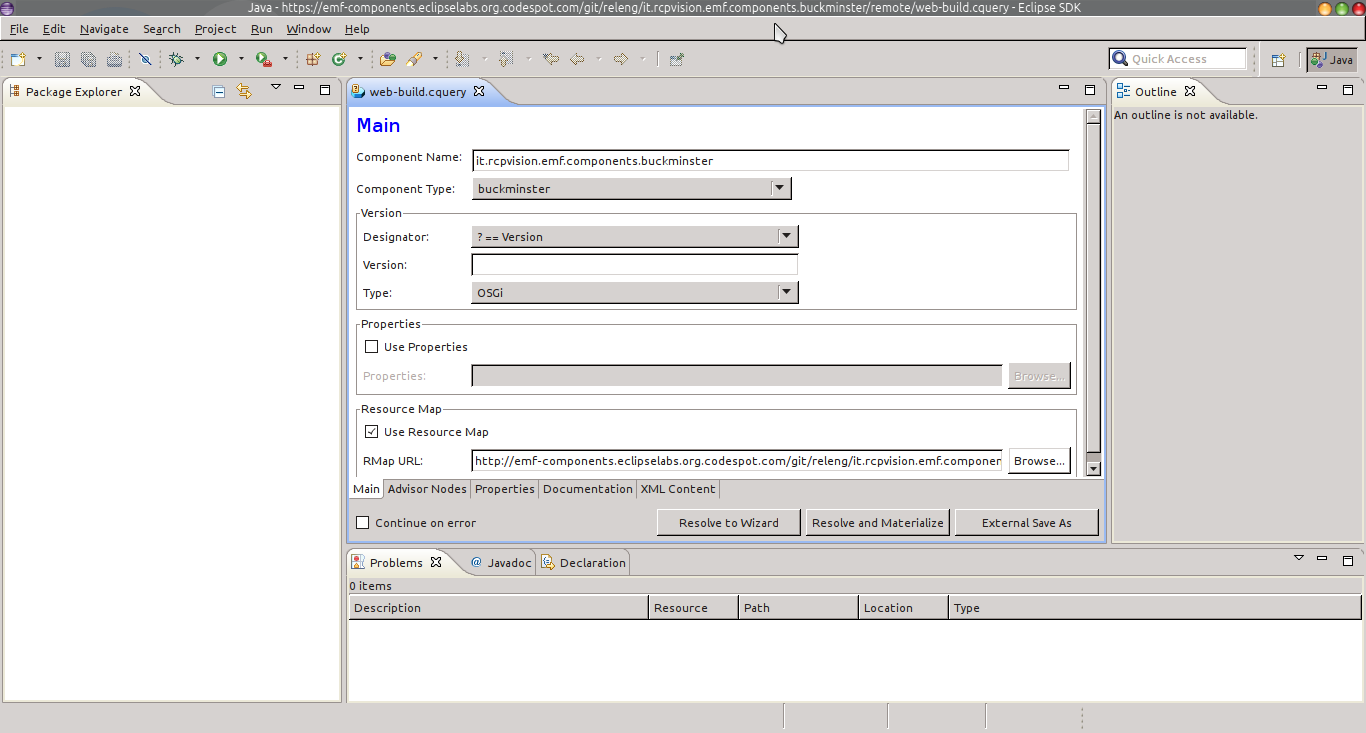
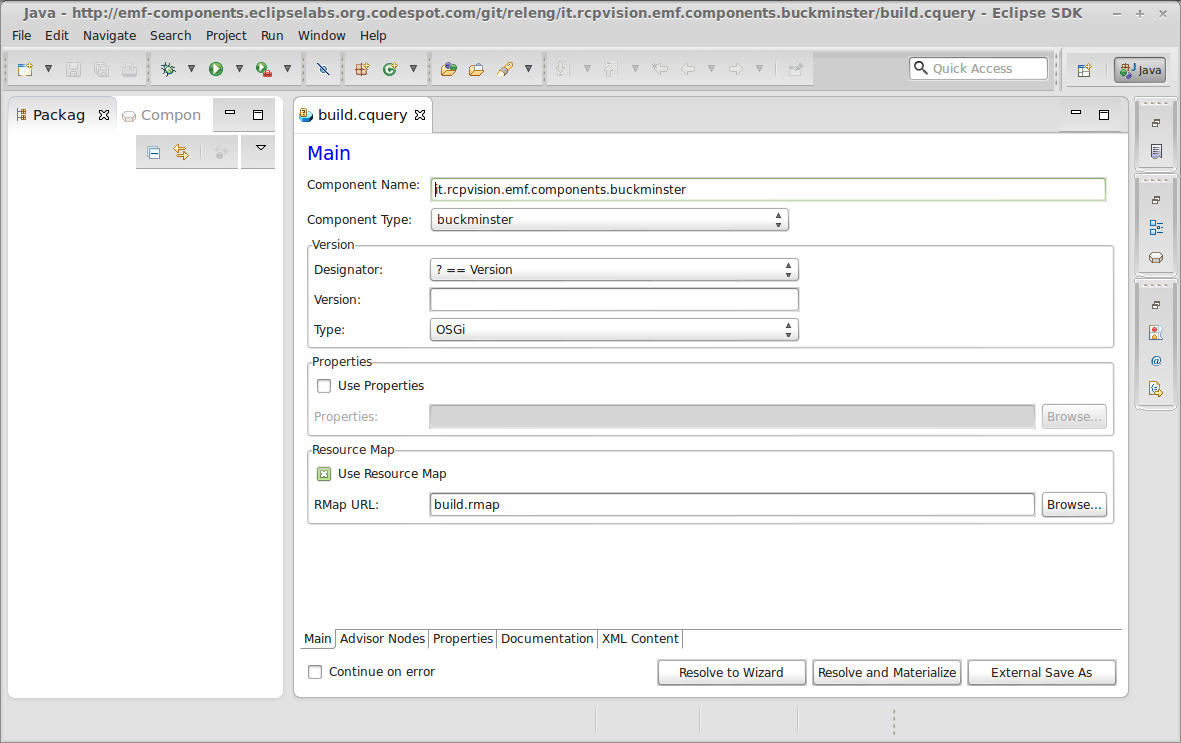
updated workspace materialization procedure

diff --git a/doc/it.rcpvision.emf.components.doc/contents/GettingSources.html b/doc/it.rcpvision.emf.components.doc/contents/GettingSources.html
@@ -102,7 +102,7 @@ From the File menu choose <em>Open a Component Query...</em> and
 use this URL
 </p>
 <p>
-<a href="http://emf-components.eclipselabs.org.codespot.com/git/releng/it.rcpvision.emf.components.buckminster/remote/web-build.cquery">http://emf-components.eclipselabs.org.codespot.com/git/releng/it.rcpvision.emf.components.buckminster/remote/web-build.cquery</a>
+<a href="http://emf-components.eclipselabs.org.codespot.com/git/releng/it.rcpvision.emf.components.buckminster/build.cquery">http://emf-components.eclipselabs.org.codespot.com/git/releng/it.rcpvision.emf.components.buckminster/build.cquery</a>
 </p>
 <p>
 <div class="image" >
@@ -134,26 +134,7 @@ You can add a property by pressing
 the <em>New</em> button.
 </p>
 <p>
-The main properties you can customize is the main eclipse
-base repository, which defaults to <a href="http://download.eclipse.org">http://download.eclipse.org</a>;
-this can be useful you have a local eclipse mirror
-(see also this <a href="http://www.lorenzobettini.it/2012/11/mirror-eclipse-repositories-with-p2-mirror-ant-task/">blog post</a>
-for details about mirror eclipse repositories).
-</p>
-<p>
-For instance, here&apos;s a possible customization
-</p>
-<p>
-<div class="image" >
-<img src="images/open-cquery-new-property.png" class=" " 
- style="width:50%" />
-<div class="caption">
-Property customization
-</div>
-</div>
-</p>
-<p>
-Similarly, you can customize the path in your system where
+For instance, you can customize the path in your system where
 the git repository will be cloned, which defaults to
 <em>${user.home}/git/emf-components</em>); for instance, you can change it
 to something else
